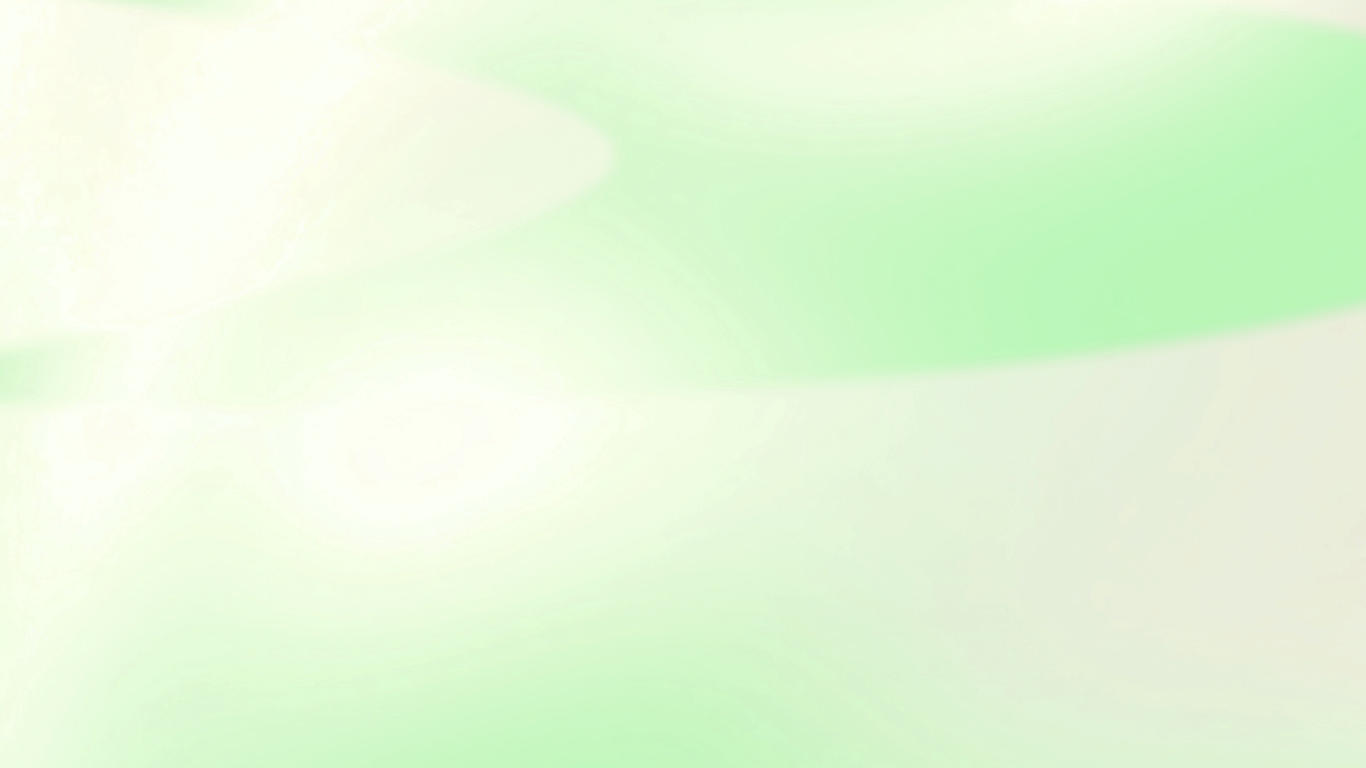
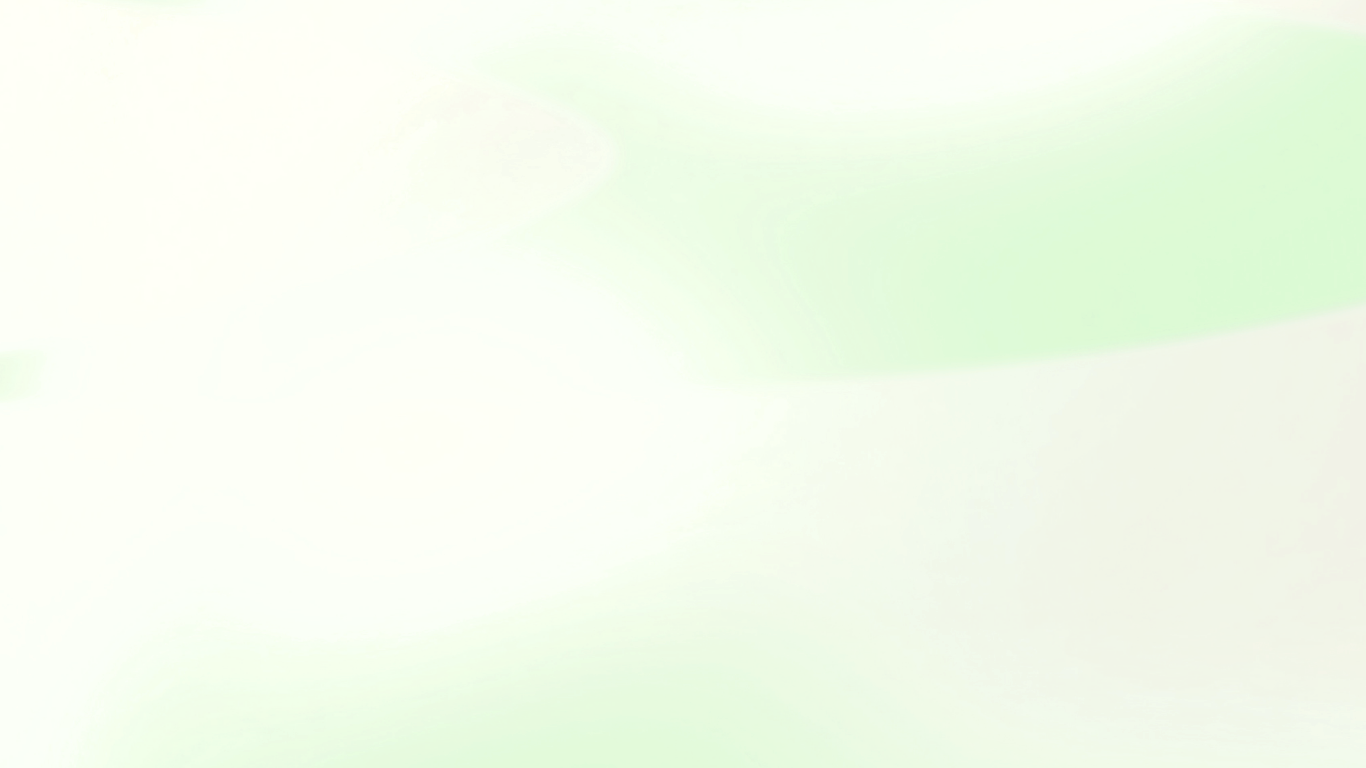
update: minimal changes

diff --git a/public/css/style.css b/public/css/style.css
@@ -52,8 +52,8 @@ button {
 .glass-card-green {
     background: linear-gradient(
         135deg,
-        rgba(4, 71, 9, 0.75),
-        rgba(76, 175, 80, 0.45)
+        rgba(0, 88, 6, 0.966),
+        rgba(0, 88, 6, 0.966)
     ) !important;
     backdrop-filter: blur(18px);
     -webkit-backdrop-filter: blur(18px);

diff --git a/resources/views/admin/dashboard.blade.php b/resources/views/admin/dashboard.blade.php
@@ -1,5 +1,7 @@
 @extends('layouts.app')
 
+@section('title', 'Dashboard')
+
 @section('content')
 <div class="container-fluid mt-4 px-4">
   <div class="row g-4">

diff --git a/resources/views/budget/dashboard.blade.php b/resources/views/budget/dashboard.blade.php
@@ -1,5 +1,7 @@
 @extends('layouts.app')
 
+@section('title', 'Dashboard')
+
 @section('content')
 <div class="container-fluid mt-4 px-4">
   <div class="row">

diff --git a/resources/views/layouts/footer.blade.php b/resources/views/layouts/footer.blade.php
@@ -1,5 +1,5 @@
 <footer class="footer">
-    <div class="d-flex justify-content-end align-items-center">
+    <div class="d-flex justify-content-end align-items-center me-2 mb-2 ">
         <div class="text-end me-2 lh-1">
             <small> In Collaboration With </small> <br> <strong>Saint Louis University</strong>
         </div>